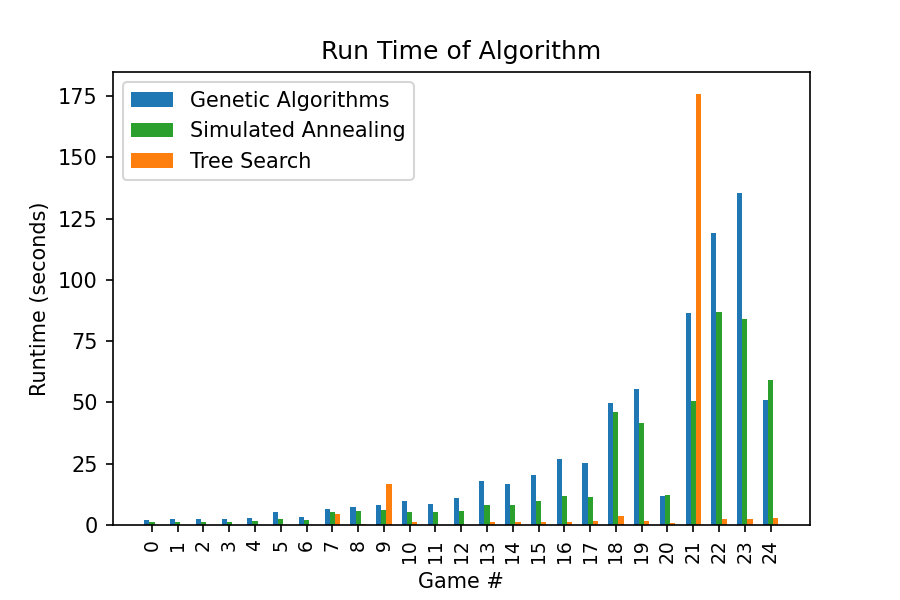
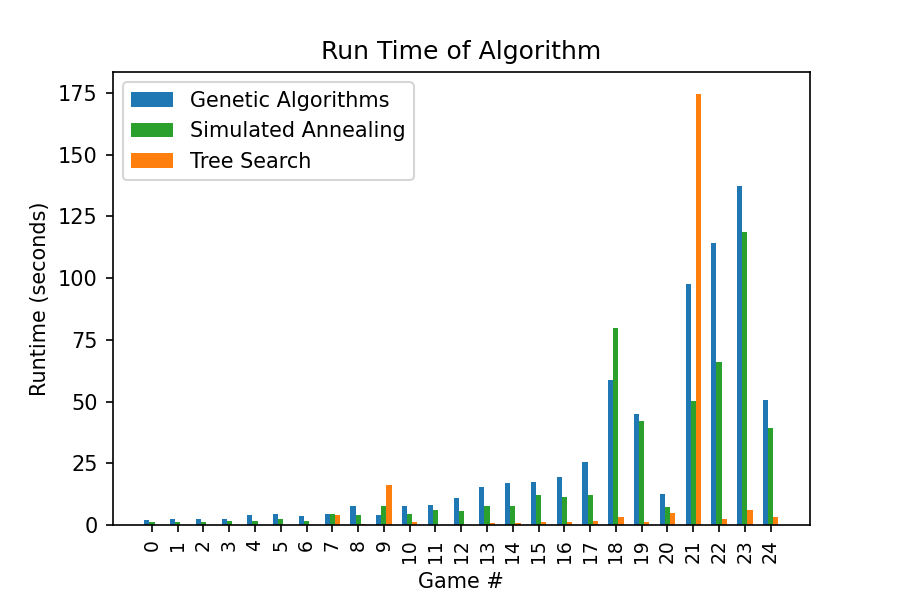
Final tables/figures

diff --git a/asteroids_sa.py b/asteroids_sa.py
@@ -78,15 +78,18 @@ class SA_Agent():
 
             """
             outer.init_env_state()
+            how_far = 0
             for move in self.state:
                 direction = move[0]
                 xv, yv = self.get_move(direction)
                 outer.env_state = asteroids_exp.move(outer.env_state, xv, yv, move[1], outer.window_width, outer.window_height, outer.args, lambda x: asteroids_exp.render(outer.view, x))
                 if outer.env_state.goal == asteroids_exp.Goal.FAIL:
-                    return outer.env_state.ship.x + outer.env_state.ship.fuel
-                if outer.env_state.goal == asteroids_exp.Goal.SUCCESS:
-                    return outer.env_state.ship.x + outer.env_state.ship.fuel - len(self.state) + 10000
-            return outer.env_state.ship.x + outer.env_state.ship.fuel - len(self.state)
+                    return how_far
+                elif outer.env_state.goal == asteroids_exp.Goal.SUCCESS:
+                    return outer.window_width + outer.env_state.ship.fuel - len(self.state) + 10001
+                else:
+                    how_far = outer.env_state.ship.x
+            return how_far + outer.env_state.ship.fuel - len(self.state)
         
         
         def get_move(self, key):
@@ -134,8 +137,8 @@ class SA_Agent():
                 remove_idx = random.randrange(1, len(new_state))
                 new_state.pop(remove_idx)
             else:
-                move_types = ['s','d','e','c','x']
-                make_move = move_types[random.randrange(5)]
+                move_types = ['s','d','e','c']
+                make_move = move_types[random.randrange(4)]
                 time_block = random.randrange(1, outer.window_width)
                 start_idx = random.randint(1, len(new_state)+1)
                 new_state.insert(start_idx, (make_move, time_block))

diff --git a/asteroids_ga.py b/asteroids_ga.py
@@ -87,12 +87,12 @@ class Chromosome(object):
                 #print("fail")
                 return how_far #env.ship.fuel + 
             elif env.ship.x > outer.window_width and env.goal == asteroids_exp.Goal.SUCCESS:
-                return  outer.window_width+1001 #env.ship.fuel*20 +
+                return  outer.window_width+1001 + env.ship.fuel*100 
             else:
                 #print("ok")
                 how_far = env.ship.x
             #print(env.ship.fuel)
-        return how_far*10 #env.ship.fuel*10 + 
+        return how_far*10 + env.ship.fuel*10
 
     # Mutate function params:(child) <- mutate child if random probability
     # DO LAST

diff --git a/generate_reports.py b/generate_reports.py
@@ -122,8 +122,6 @@ def get_tree_stats():
     for i in range(25):
         print("Game #" + str(i) + ": ", end='')
         for j in range(5):
-            if i == 21:
-                continue
             tree = asteroids_tree.Search_Agent(line_args.format(i))
             start = time.time()
             tree_path = tree.run()
@@ -355,9 +353,10 @@ def simple_data():
 
 
 if __name__ == "__main__":
-    one_iteration()
+    #one_iteration()
+    # Uncomment to regenerate the tables
     simple_data()
-    #twenty_iterations()
+    
 
 
 
